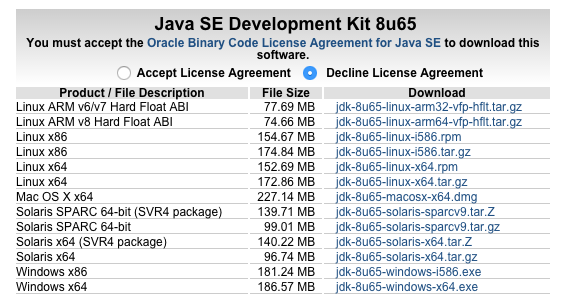
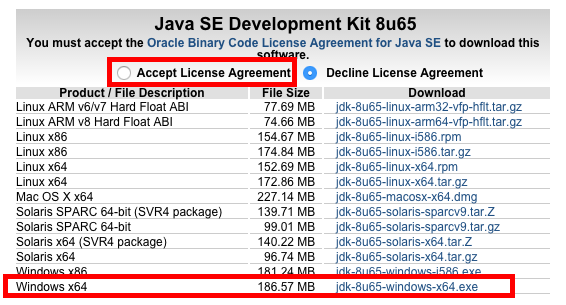
更新圖檔

Changed region(s): [[0.0, 0.8852, 0.9311, 1.0], [0.1802, 0.177, 0.5406, 0.2951]]

diff --git a/docs/setup-build-environment.rst b/docs/setup-build-environment.rst
@@ -14,7 +14,7 @@
 Android版環境設定
 ----------------------------------------
 
-1.下載並安裝
+1.下載並安裝 `Java Development Kit(JDK) <http://www.oracle.com/technetwork/java/javase/downloads/jdk8-downloads-2133151.html>`_
    .. image:: /_static/image/setup-build-environment/1_install_jdk.png
 
 
